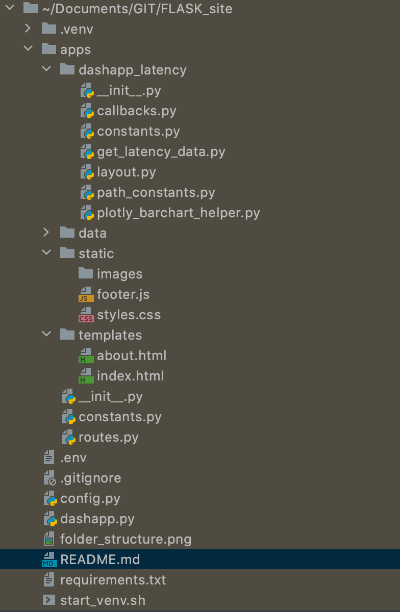
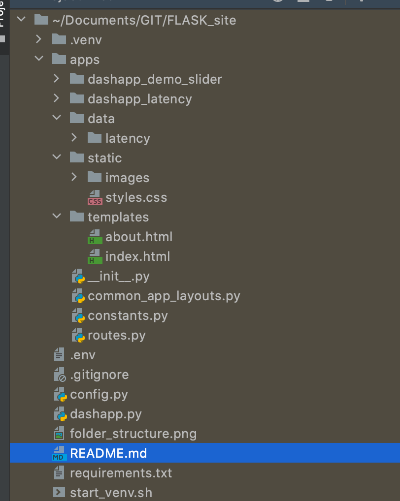
Add a demo app

diff --git a/apps/templates/index.html b/apps/templates/index.html
@@ -81,13 +81,13 @@
                     <img class="card-img-top" src="" alt="Card Image">
                 </div>
                 <div class="card-body">
-                    <h4 class="dash-app-title">Plots 2</h4>
+                    <h4 class="dash-app-title">{{ app_2_demo_slider_title }}</h4>
                     <p class="card-text">
-                        Some text here
+                        {{ app_2_demo_slider_description }}
                     </p>
                 </div>
                 <div class="card-footer">
-                    <a href="" class="btn btn-primary">Click here</a>
+                    <a href={{ app_2_demo_slider_path }} class="btn btn-primary">Click here</a>
                 </div>
             </div>
         </div>
@@ -97,13 +97,13 @@
                     <img class="card-img-top" src="" alt="Card Image">
                 </div>
                 <div class="card-body">
-                    <h4 class="dash-app-title">Plots 3</h4>
+                    <h4 class="dash-app-title">{{ app_3_title }}</h4>
                     <p class="card-text">
-                        Some text here
+                        {{ app_3_description }}
                     </p>
                 </div>
                 <div class="card-footer">
-                    <a href="" class="btn btn-primary">Click here</a>
+                    <a href={{ app_3_path }} class="btn btn-primary">Click here</a>
                 </div>
             </div>
         </div>

diff --git a/apps/templates/about.html b/apps/templates/about.html
@@ -51,7 +51,8 @@
 
 <div class="container">
     <p>
-        Some text here
+        The Github folder for this site is
+        <a href="https://github.com/cissieAB/Flask_Plotly_Dash_Site">here</a>
     </p>
 <br>
 </div>

diff --git a/apps/__init__.py b/apps/__init__.py
@@ -8,7 +8,7 @@ import dash
 import dash_bootstrap_components as dbc
 from flask import Flask
 
-from apps.constants import HTML_APP_LATENCY_PATH
+from apps.constants import HTML_APP_LATENCY_PATH, HTML_APP_DEMO_SLIDER_PATH
 from config import Config
 
 
@@ -22,14 +22,15 @@ def create_app():
     return server
 
 
+# modify when adding more Dash apps
 def register_dashapps(app):
-    from apps.dashapp_latency.layout import layout
-    from apps.dashapp_latency.callbacks import register_callbacks
+    from apps.dashapp_latency.layout import latency_layout
+    from apps.dashapp_latency.callbacks import register_latency_callbacks
 
     # Meta tags for viewport responsiveness
     meta_viewport = {"name": "viewport", "content": "width=device-width, initial-scale=1, shrink-to-fit=no"}
 
-    # the first dash app
+    # the first Dash app
     dashapp_latency = dash.Dash(
         __name__,
         external_stylesheets=[dbc.themes.BOOTSTRAP],   # bootstrap theme
@@ -40,12 +41,29 @@ def register_dashapps(app):
 
     with app.app_context():
         dashapp_latency.title = 'Dashapp for latency'
-        dashapp_latency.layout = layout
-        register_callbacks(dashapp_latency)
+        dashapp_latency.layout = latency_layout
+        register_latency_callbacks(dashapp_latency)
 
-    # TODO: add demo apps
+    # the second Dash app
+    from apps.dashapp_demo_slider.layout import demo_slider_layout
+    from apps.dashapp_demo_slider.callbacks import register_demo_slider_callbacks
+
+    dashapp_demo_slider = dash.Dash(
+        __name__,
+        external_stylesheets=[dbc.themes.BOOTSTRAP],  # bootstrap theme
+        server=app,
+        url_base_pathname=HTML_APP_DEMO_SLIDER_PATH,
+        meta_tags=[meta_viewport]
+    )
+
+    with app.app_context():
+        dashapp_demo_slider.title = 'Dashapp for demo slider'
+        dashapp_demo_slider.layout = demo_slider_layout
+        register_demo_slider_callbacks(dashapp_demo_slider)
+
+    # register more Dash apps here
 
 
-def register_blueprints(server):
+def register_blueprints(server):  # do not change
     from apps.routes import server_bp
     server.register_blueprint(server_bp)

diff --git a/apps/dashapp_demo_slider/layout.py b/apps/dashapp_demo_slider/layout.py
@@ -1,0 +1,49 @@
+"""
+The layout for the demo_slider app.
+
+The core part is a Dash slider.
+Refer to https://dash.plotly.com/dash-core-components/slider for details.
+"""
+import dash_bootstrap_components as dbc
+import dash_core_components as dcc
+import dash_html_components as html
+
+from apps.common_app_layouts import get_app_main_container
+from apps.constants import HTML_APP_DEMO_SLIDER_TITLE
+
+EXPLANATION_TXT = html.Div(
+    [
+        dcc.Markdown('''
+        This is a demo for the Dash slider.
+        '''),
+    ]
+)
+
+center_graph = dbc.Card(  # the center chart in a Bootstrap Card
+    [
+        # Below are all Dash.html components
+        # Ref: https://dash.plotly.com/dash-html-components
+
+        EXPLANATION_TXT,
+        html.Hr(),
+
+        # graph area
+        # dcc.Graph(id="demo-slider-center-chart"),  # make sure id the same as that in its callback function
+
+        # slider here, core part
+        dcc.Slider(
+            id='demo-slider-slider',   # make sure id the same as that in its callback function
+            min=0,
+            max=6,
+            step=1,   # step size of each slide
+            value=0,  # default value
+        ),
+        # a blank line
+        html.Br(),
+        html.Div(id='demo-slider-output-container'),
+    ],
+    body=True,
+)
+
+
+demo_slider_layout = get_app_main_container(HTML_APP_DEMO_SLIDER_TITLE, center_graph)

diff --git a/apps/routes.py b/apps/routes.py
@@ -12,7 +12,7 @@ https://flask.palletsprojects.com/en/1.1.x/quickstart/#routing.
 from flask import render_template
 from flask import Blueprint
 
-from .constants import HTML_APP_LATENCY_PATH, HTML_APP_LATENCY_TITLE
+from .constants import *
 
 server_bp = Blueprint('main', __name__)
 
@@ -22,11 +22,19 @@ def render_page_home():
     """Render the homepage."""
     return render_template(
         "index.html",    # a html file at "./templates"
-        # parameters for the first dash app
+        # parameters for the first Dash app
         app_1_latency_title=HTML_APP_LATENCY_TITLE,
         app_1_latency_description="Display the latency success rates of the FLASHFlux v3c/v4a SSF Aqua/Terra and the "
                                 "TISA data products by month or by year.",
-        app_1_latency_path=HTML_APP_LATENCY_PATH
+        app_1_latency_path=HTML_APP_LATENCY_PATH,
+        # parameters for the second Dash app
+        app_2_demo_slider_title=HTML_APP_DEMO_SLIDER_TITLE,
+        app_2_demo_slider_description="A demo for the Dash slider to view the data of last 7 days.",
+        app_2_demo_slider_path=HTML_APP_DEMO_SLIDER_PATH,
+        # parameters for the third Dash app
+        app_3_title="Plot 3",
+        app_3_description="To be added",
+        app_3_path=HTML_HOME_PATH,
     )
 
 

diff --git a/apps/dashapp_latency/layout.py b/apps/dashapp_latency/layout.py
@@ -10,6 +10,7 @@ import dash_html_components as html
 
 from .constants import OPTION_STR
 from apps.common_app_layouts import get_app_main_container
+from apps.constants import HTML_APP_LATENCY_TITLE
 
 # some explanation texts
 EXPLANATION_TXT = html.Div(
@@ -61,5 +62,5 @@ center_area = dbc.Card(  # the center chart in a Bootstrap Card
     body=True,
 )
 
-app_title_txt = "Latency Success Rates"
-layout = get_app_main_container(app_title_txt, center_area)
+app_title_txt = HTML_APP_LATENCY_TITLE
+latency_layout = get_app_main_container(app_title_txt, center_area)

diff --git a/apps/dashapp_demo_slider/callbacks.py b/apps/dashapp_demo_slider/callbacks.py
@@ -1,0 +1,16 @@
+"""
+The callback function of the demo slider app.
+
+The core part is a Dash slider.
+Refer to https://dash.plotly.com/dash-core-components/slider for details.
+"""
+
+from dash.dependencies import Input
+from dash.dependencies import Output
+
+
+# the callback function of the slider in
+def register_demo_slider_callbacks(dashapp):
+    @dashapp.callback(Output('demo-slider-output-container', 'children'), [Input('demo-slider-slider', 'value')])
+    def update_output(value):
+        return 'You have selected "{}"'.format(value)

diff --git a/apps/dashapp_latency/callbacks.py b/apps/dashapp_latency/callbacks.py
@@ -13,7 +13,7 @@ from .plotly_barchart_helper import get_latency_figure_obj
 
 # the callback function of the dropdown in layout.py.
 # Note the quoted names should be identical to those in layout.py
-def register_callbacks(dashapp):
+def register_latency_callbacks(dashapp):
     @dashapp.callback(Output('latency-center-chart', 'figure'), [Input('latency-dropdown', 'value')])
     def update_graph(selected_dropdown_value):
         return get_latency_figure_obj(selected_dropdown_value)

diff --git a/apps/constants.py b/apps/constants.py
@@ -2,7 +2,10 @@
 Defines the url addresses for the dash apps.
 """
 # url mappings for the dash plot apps
-HTML_APP_LATENCY_PATH = "/latency/"
 HTML_HOME_PATH = "http://127.0.0.1:5000"   # TODO: currently only supports absolute url address. Seek better solutions
+HTML_APP_LATENCY_PATH = "/latency/"
+HTML_APP_DEMO_SLIDER_PATH = "/demo_slider/"
 
+# the Dash app titles
 HTML_APP_LATENCY_TITLE = "Latency Success Rates"
+HTML_APP_DEMO_SLIDER_TITLE = "Demo Slider"

diff --git a/README.md b/README.md
@@ -40,6 +40,9 @@ more Dash apps.
   files for each sub page of the website. The documentation of the Flask routing rules can 
   be found [here](https://flask.palletsprojects.com/en/1.1.x/quickstart/#routing). 
   It must be changed when you add more sub pages.
+- `/apps/common_app_layouts.py`: define the common Dash components for all the Dash apps.
+  Now it includes a main container, with a return to homepage button at the bottom.
+  Change it to meet your own designs.
 - `/apps/templates/`: all the static html files defined by `/apps/routes.py` have to be 
   located here. These html files are independent of the Dash pages created by pure Python. 
   Change them when needed.
@@ -79,7 +82,6 @@ LESS_BIN=/usr/local/bin/lessc
 ASSETS_DEBUG=False
 LESS_RUN_IN_DEBUG=False
 COMPRESSOR_DEBUG=True
-
 ```
   
 - In `/apps/constants.py`, change `HTML_HOME_PATH = "http://127.0.0.1:5000"` 
